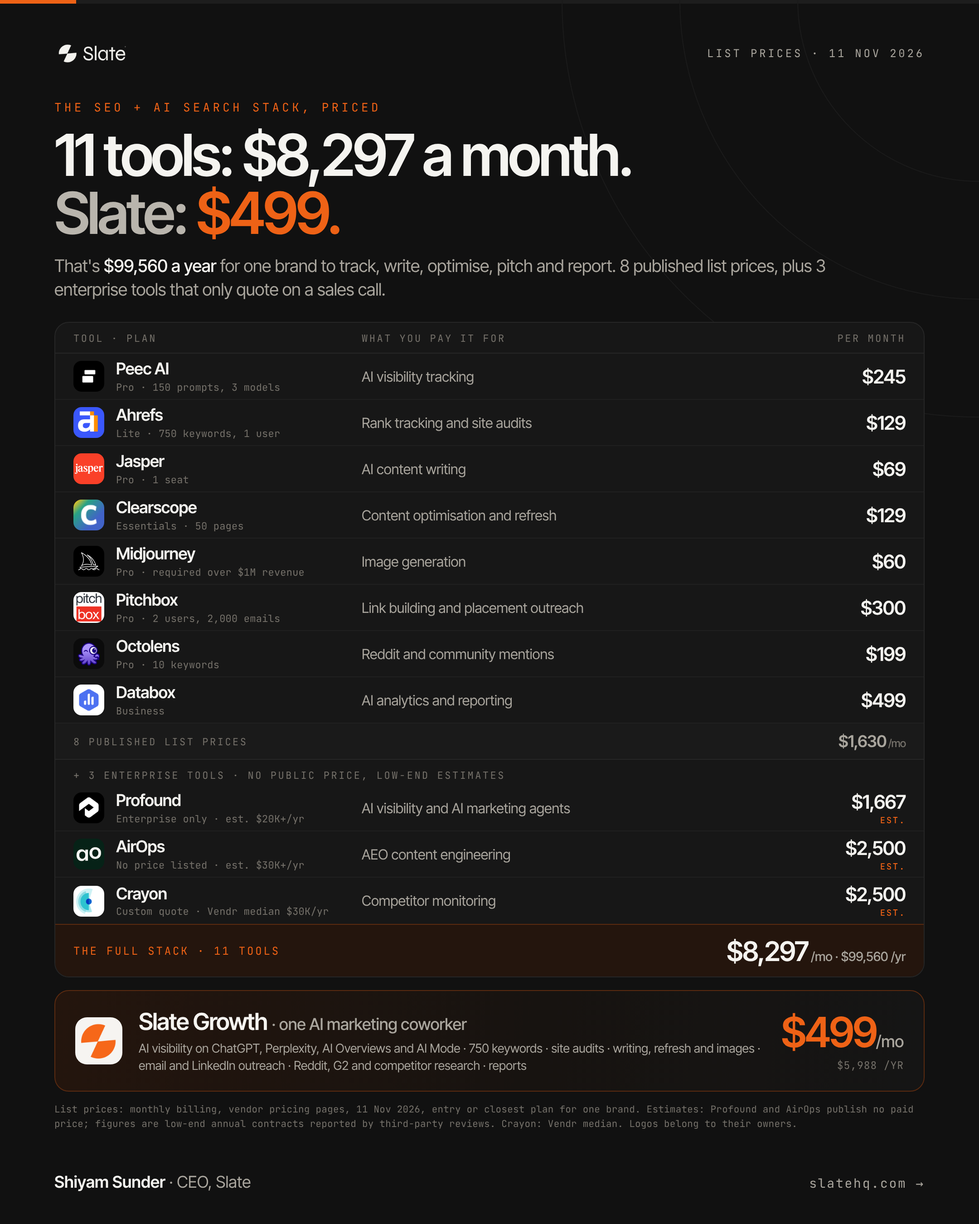
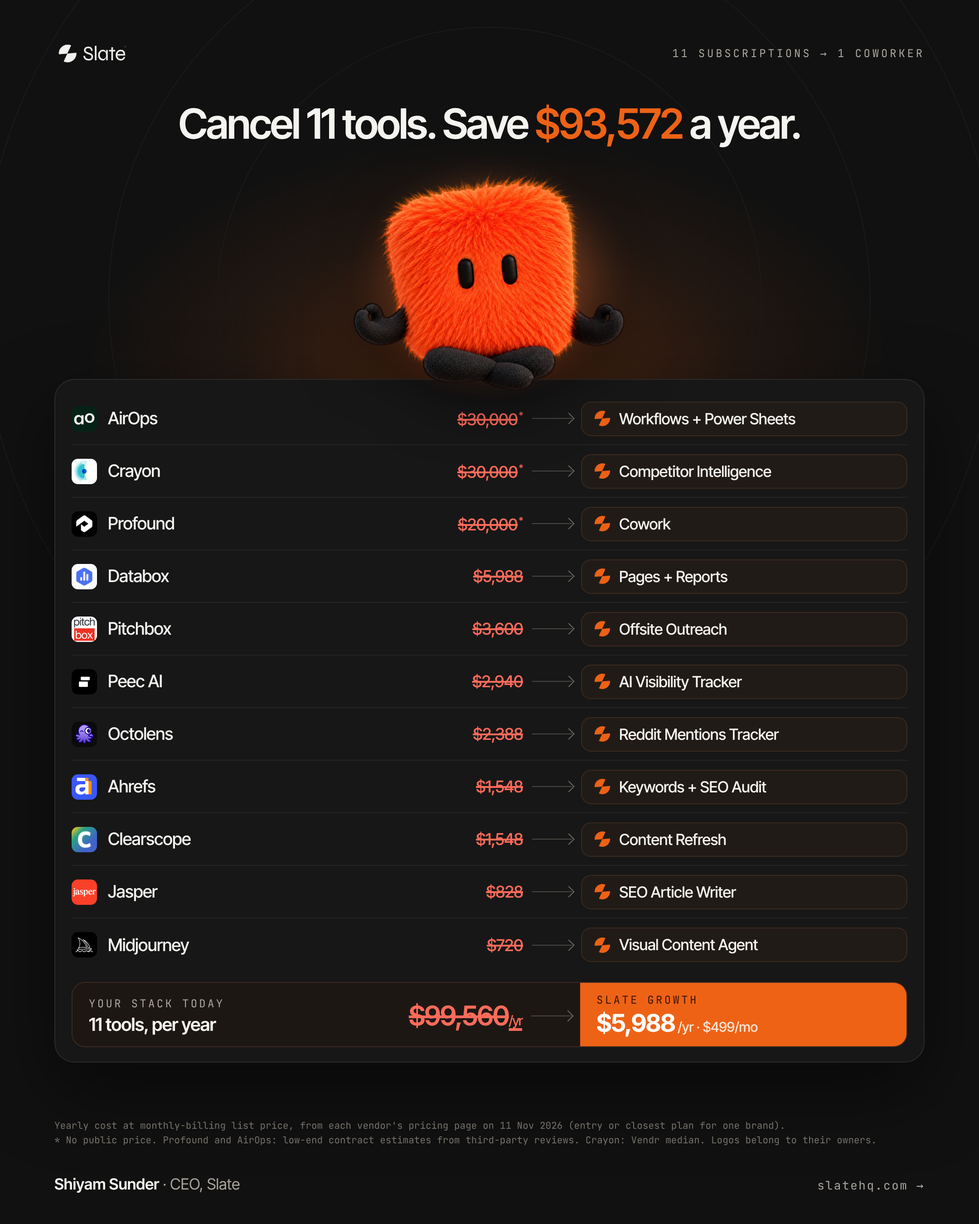
Redesign stack graphic in tool-to-feature layout with Slate mascot
Rebuild the image around the orange Slate mascot (rendered from the
homepage Lottie file) sitting on a card that maps each tool's struck-
through yearly price to the Slate feature that replaces it, totalling
$99,560/yr vs $5,988/yr. Rewrite the post in a warmer founder voice.

Claude-Session: https://claude.ai/code/session_017uCf1pmV8y2GsznBw541N3

diff --git a/slate-stack/stack.html b/slate-stack/stack.html
@@ -7,141 +7,104 @@
 <style>
   :root {
     --bg: #111111;
-    --tile: #171717;
-    --line: #262626;
+    --card: #171717;
+    --line: #242424;
     --ink: #f5f4f0;
     --mute: #a9a59d;
     --dim: #75716a;
     --accent: #ee6216;
+    --strike: #ff6b5a;
   }
   * { box-sizing: border-box; margin: 0; padding: 0; }
   html, body { width: 1080px; height: 1350px; background: var(--bg); }
   body { font-family: 'Inter Tight', system-ui, sans-serif; color: var(--ink); position: relative; overflow: hidden; }
   .mono { font-family: 'JetBrains Mono', ui-monospace, monospace; }
-  .bar { position: absolute; top: 0; left: 0; height: 4px; width: 100%; background: #1d1d1d; }
-  .bar::before { content: ''; position: absolute; left: 0; top: 0; height: 4px; width: 84px; background: var(--accent); }
+  .glow { position: absolute; left: 50%; top: 150px; width: 900px; height: 520px; transform: translateX(-50%);
+          background: radial-gradient(closest-side, rgba(238,98,22,.30), rgba(238,98,22,.08) 60%, transparent 100%); }
   .rings { position: absolute; inset: 0; pointer-events: none; }
 
-  .wrap { position: absolute; inset: 0; padding: 44px 60px 36px; display: flex; flex-direction: column; }
-  header { display: flex; justify-content: space-between; align-items: center; }
+  header { position: absolute; top: 44px; left: 60px; right: 60px; display: flex; justify-content: space-between; align-items: center; }
   header img { height: 30px; }
   header .tag { font-size: 12px; letter-spacing: .2em; color: var(--mute); }
 
-  .eyebrow { margin-top: 36px; font-size: 13px; letter-spacing: .24em; color: var(--accent); }
-  h1 { margin-top: 12px; font-size: 64px; line-height: 1; font-weight: 600; letter-spacing: -0.045em; }
-  h1 .grey { color: #b9b5ad; }
+  h1 { position: absolute; top: 112px; left: 0; right: 0; text-align: center; font-size: 46px; font-weight: 600; letter-spacing: -0.04em; line-height: 1.05; }
   h1 em { font-style: normal; color: var(--accent); }
-  .sub { margin-top: 14px; font-size: 19px; line-height: 1.38; color: var(--mute); letter-spacing: -0.01em; max-width: 900px; }
-  .sub b { color: var(--ink); font-weight: 500; }
 
-  .table { margin-top: 22px; border: 1px solid var(--line); border-radius: 16px; background: var(--tile); overflow: hidden; }
-  .thead, .row { display: grid; grid-template-columns: 300px 1fr 104px; align-items: center; column-gap: 18px; padding: 0 20px; }
-  .thead { height: 34px; font-size: 11px; letter-spacing: .16em; color: var(--dim); border-bottom: 1px solid var(--line); }
-  .thead div:last-child { text-align: right; }
-  .row { height: 51px; border-bottom: 1px solid #202020; }
-  .tool { display: flex; align-items: center; gap: 13px; min-width: 0; }
-  .logo { width: 34px; height: 34px; border-radius: 9px; overflow: hidden; flex: none; display: flex; align-items: center; justify-content: center; }
+  .mascot { position: absolute; left: 50%; top: 170px; width: 318px; transform: translateX(-50%); z-index: 2; filter: drop-shadow(0 18px 30px rgba(0,0,0,.55)); }
+
+  .card { position: absolute; left: 60px; right: 60px; top: 418px; background: var(--card); border: 1px solid #2a2a2a; border-radius: 22px; padding: 14px 18px 16px; box-shadow: 0 30px 80px rgba(0,0,0,.5); }
+  .row { display: grid; grid-template-columns: 1fr 92px 64px 360px; align-items: center; height: 58px; border-bottom: 1px solid var(--line); }
+  .row.last { border-bottom: 0; }
+  .tool { display: flex; align-items: center; gap: 12px; }
+  .logo { width: 28px; height: 28px; border-radius: 7px; overflow: hidden; flex: none; display: flex; align-items: center; justify-content: center; }
   .logo img { width: 100%; height: 100%; object-fit: cover; display: block; }
   .logo.pad { background: #fff; } .logo.pad img { width: 82%; height: 82%; object-fit: contain; }
-  .logo.dk { background: #0b0b0b; } .logo.dk img { width: 78%; height: 78%; object-fit: contain; }
-  .name { font-size: 18px; font-weight: 600; letter-spacing: -0.02em; line-height: 1.1; }
-  .plan { font-size: 11px; color: var(--dim); margin-top: 3px; letter-spacing: .01em; white-space: nowrap; }
-  .job { font-size: 15.5px; color: var(--mute); letter-spacing: -0.005em; }
-  .price { text-align: right; font-size: 21px; font-weight: 600; letter-spacing: -0.03em; }
-  .price small { font-size: 12px; color: var(--dim); font-weight: 500; letter-spacing: 0; }
-  .price.q { font-family: 'JetBrains Mono', monospace; font-size: 12px; font-weight: 500; color: var(--accent); letter-spacing: .04em; line-height: 1.25; }
+  .logo.dk { background: #0b0b0b; } .logo.dk img { width: 80%; height: 80%; object-fit: contain; }
+  .name { font-size: 19px; font-weight: 500; letter-spacing: -0.02em; }
+  .price { text-align: right; font-size: 18px; font-weight: 500; color: var(--strike); text-decoration: line-through; text-decoration-thickness: 1.5px; letter-spacing: -0.02em; white-space: nowrap; }
+  .price sup { font-size: 11px; display: inline-block; margin-left: 1px; color: var(--strike); }
+  .arrow { display: flex; align-items: center; padding: 0 10px; }
+  .arrow i { flex: 1; height: 1px; background: #4a4743; position: relative; }
+  .arrow i::after { content: ''; position: absolute; right: -1px; top: -4px; width: 8px; height: 8px; border-top: 1px solid #6b6760; border-right: 1px solid #6b6760; transform: rotate(45deg); }
+  .pill { display: flex; align-items: center; gap: 10px; height: 38px; padding: 0 14px; border-radius: 11px; background: #211b17; border: 1px solid #3a2a1f; font-size: 17px; font-weight: 500; letter-spacing: -0.015em; }
+  .pill img { width: 17px; height: 17px; }
 
-  .sum { display: grid; grid-template-columns: 1fr auto; align-items: center; padding: 0 20px; height: 58px; background: #24150d; border-top: 1px solid #5a2a10; }
-  .sum .l { color: var(--accent) !important; }
-  .sub2 { display: grid; grid-template-columns: 1fr auto; align-items: center; padding: 0 20px; height: 40px; background: #1a1a1a; border-bottom: 1px solid var(--line); }
-  .sub2 .l { font-size: 11px; letter-spacing: .16em; color: var(--dim); }
-  .sub2 .r { font-size: 18px; font-weight: 600; letter-spacing: -0.03em; color: var(--mute); }
-  .sub2 .r small { font-size: 12px; color: var(--dim); font-weight: 500; }
-  .est { font-size: 9.5px; letter-spacing: .14em; color: var(--accent); font-weight: 500; margin-top: 1px; }
-  .sum .l { font-size: 12px; letter-spacing: .16em; color: var(--mute); }
-  .sum .r { font-size: 30px; font-weight: 600; letter-spacing: -0.035em; }
-  .sum .r small { font-size: 14px; color: var(--mute); font-weight: 500; letter-spacing: -0.01em; }
-  .group { padding: 10px 20px 4px; font-size: 11px; letter-spacing: .16em; color: var(--dim); }
-  .row.last { border-bottom: 0; }
+  .total { margin-top: 12px; display: grid; grid-template-columns: 1fr auto 64px 360px; align-items: center; height: 72px; border-radius: 15px; background: #1d1714; border: 1px solid #3a2a1f; padding-left: 18px; overflow: hidden; }
+  .total .l { font-size: 12px; letter-spacing: .18em; color: var(--mute); }
+  .total .l b { display: block; font-family: 'Inter Tight', sans-serif; font-size: 20px; letter-spacing: -0.02em; color: var(--ink); font-weight: 600; margin-top: 3px; }
+  .total .old { font-size: 30px; font-weight: 600; color: var(--strike); text-decoration: line-through; text-decoration-thickness: 2.5px; letter-spacing: -0.035em; }
+  .total .old small { font-size: 15px; font-weight: 500; }
+  .total .new { height: 72px; background: var(--accent); display: flex; flex-direction: column; justify-content: center; padding: 0 18px; }
+  .total .new .a { font-size: 12px; letter-spacing: .18em; color: #3b1503; font-family: 'JetBrains Mono', monospace; }
+  .total .new .b { font-size: 27px; font-weight: 700; letter-spacing: -0.035em; color: #fff; margin-top: 1px; }
+  .total .new .b small { font-size: 15px; font-weight: 500; color: #ffe6d6; letter-spacing: -0.01em; }
 
-  .slate { margin-top: 14px; border-radius: 16px; border: 1px solid #5a2a10; background: linear-gradient(100deg, #24150d 0%, #171310 55%, #151515 100%); padding: 18px 22px; display: grid; grid-template-columns: auto 1fr auto; column-gap: 18px; align-items: center; }
-  .slate .logo { width: 52px; height: 52px; border-radius: 13px; }
-  .slate .t { font-size: 26px; font-weight: 600; letter-spacing: -0.03em; }
-  .slate .t span { color: var(--mute); font-weight: 500; font-size: 18px; letter-spacing: -0.01em; }
-  .slate .d { margin-top: 5px; font-size: 13.5px; color: var(--mute); line-height: 1.4; }
-  .slate .p { text-align: right; }
-  .slate .p .big { font-size: 46px; font-weight: 600; letter-spacing: -0.045em; color: var(--accent); line-height: 1; }
-  .slate .p .big small { font-size: 18px; color: var(--mute); letter-spacing: -0.01em; font-weight: 500; }
-  .slate .p .yr { font-size: 11.5px; color: var(--dim); margin-top: 6px; letter-spacing: .04em; }
-
-  .note { margin-top: 12px; font-size: 10.5px; line-height: 1.5; color: var(--dim); letter-spacing: .01em; }
-  footer { margin-top: auto; display: flex; justify-content: space-between; align-items: baseline; font-size: 18px; }
+  .note { position: absolute; left: 60px; right: 60px; top: 1234px; font-size: 10.5px; line-height: 1.5; color: var(--dim); }
+  footer { position: absolute; left: 60px; right: 60px; bottom: 34px; display: flex; justify-content: space-between; align-items: baseline; font-size: 17px; }
   footer b { font-weight: 600; } footer span { color: var(--mute); }
-  footer .mono { font-size: 14px; color: var(--mute); letter-spacing: .1em; }
+  footer .mono { font-size: 13px; color: var(--mute); letter-spacing: .1em; }
 </style>
 </head>
 <body>
-  <div class="bar"></div>
+  <div class="glow"></div>
   <svg class="rings" viewBox="0 0 1080 1350" fill="none"><g stroke="#1b1b1b" stroke-width="1">
-    <circle cx="1080" cy="0" r="200"/><circle cx="1080" cy="0" r="330"/><circle cx="1080" cy="0" r="460"/></g></svg>
+    <circle cx="540" cy="330" r="300"/><circle cx="540" cy="330" r="420"/><circle cx="540" cy="330" r="560"/></g></svg>
 
-  <div class="wrap">
-    <header>
-      <img src="logo.png" alt="Slate">
-      <div class="tag mono">LIST PRICES · 11 NOV 2026</div>
-    </header>
+  <header>
+    <img src="logo.png" alt="Slate">
+    <div class="tag mono">11 SUBSCRIPTIONS → 1 COWORKER</div>
+  </header>
 
-    <div class="eyebrow mono">THE SEO + AI SEARCH STACK, PRICED</div>
-    <h1>11 tools: $8,297 a month.<br><span class="grey">Slate: <em>$499.</em></span></h1>
-    <p class="sub">That's <b>$99,560 a year</b> for one brand to track, write, optimise, pitch and report. 8 published list prices, plus 3 enterprise tools that only quote on a sales call.</p>
+  <h1>Cancel 11 tools. Save <em>$93,572</em> a year.</h1>
 
-    <div class="table">
-      <div class="thead mono"><div>TOOL · PLAN</div><div>WHAT YOU PAY IT FOR</div><div>PER MONTH</div></div>
+  <img class="mascot" src="mascot.png" alt="Slate mascot">
 
-      <div class="row"><div class="tool"><div class="logo"><img src="logos/peec.png"></div><div><div class="name">Peec AI</div><div class="plan mono">Pro · 150 prompts, 3 models</div></div></div>
-        <div class="job">AI visibility tracking</div><div class="price">$245</div></div>
-      <div class="row"><div class="tool"><div class="logo"><img src="logos/ahrefs.png"></div><div><div class="name">Ahrefs</div><div class="plan mono">Lite · 750 keywords, 1 user</div></div></div>
-        <div class="job">Rank tracking and site audits</div><div class="price">$129</div></div>
-      <div class="row"><div class="tool"><div class="logo"><img src="logos/jasper.png"></div><div><div class="name">Jasper</div><div class="plan mono">Pro · 1 seat</div></div></div>
-        <div class="job">AI content writing</div><div class="price">$69</div></div>
-      <div class="row"><div class="tool"><div class="logo"><img src="logos/clearscope48.png"></div><div><div class="name">Clearscope</div><div class="plan mono">Essentials · 50 pages</div></div></div>
-        <div class="job">Content optimisation and refresh</div><div class="price">$129</div></div>
-      <div class="row"><div class="tool"><div class="logo"><img src="logos/midjourney.svg"></div><div><div class="name">Midjourney</div><div class="plan mono">Pro · required over $1M revenue</div></div></div>
-        <div class="job">Image generation</div><div class="price">$60</div></div>
-      <div class="row"><div class="tool"><div class="logo"><img src="logos/pitchbox.png"></div><div><div class="name">Pitchbox</div><div class="plan mono">Pro · 2 users, 2,000 emails</div></div></div>
-        <div class="job">Link building and placement outreach</div><div class="price">$300</div></div>
-      <div class="row"><div class="tool"><div class="logo dk"><img src="logos/octolens.png"></div><div><div class="name">Octolens</div><div class="plan mono">Pro · 10 keywords</div></div></div>
-        <div class="job">Reddit and community mentions</div><div class="price">$199</div></div>
-      <div class="row"><div class="tool"><div class="logo"><img src="logos/databox.png"></div><div><div class="name">Databox</div><div class="plan mono">Business</div></div></div>
-        <div class="job">AI analytics and reporting</div><div class="price">$499</div></div>
+  <div class="card">
+    <div class="row"><div class="tool"><div class="logo"><img src="logos/airops.png"></div><span class="name">AirOps</span></div><div class="price">$30,000<sup>*</sup></div><div class="arrow"><i></i></div><div class="pill"><img src="logos/slate-mark.png">Workflows + Power Sheets</div></div>
+    <div class="row"><div class="tool"><div class="logo pad"><img src="logos/crayon.png"></div><span class="name">Crayon</span></div><div class="price">$30,000<sup>*</sup></div><div class="arrow"><i></i></div><div class="pill"><img src="logos/slate-mark.png">Competitor Intelligence</div></div>
+    <div class="row"><div class="tool"><div class="logo"><img src="logos/profound.png"></div><span class="name">Profound</span></div><div class="price">$20,000<sup>*</sup></div><div class="arrow"><i></i></div><div class="pill"><img src="logos/slate-mark.png">Cowork</div></div>
+    <div class="row"><div class="tool"><div class="logo"><img src="logos/databox.png"></div><span class="name">Databox</span></div><div class="price">$5,988</div><div class="arrow"><i></i></div><div class="pill"><img src="logos/slate-mark.png">Pages + Reports</div></div>
+    <div class="row"><div class="tool"><div class="logo"><img src="logos/pitchbox.png"></div><span class="name">Pitchbox</span></div><div class="price">$3,600</div><div class="arrow"><i></i></div><div class="pill"><img src="logos/slate-mark.png">Offsite Outreach</div></div>
+    <div class="row"><div class="tool"><div class="logo"><img src="logos/peec.png"></div><span class="name">Peec AI</span></div><div class="price">$2,940</div><div class="arrow"><i></i></div><div class="pill"><img src="logos/slate-mark.png">AI Visibility Tracker</div></div>
+    <div class="row"><div class="tool"><div class="logo dk"><img src="logos/octolens.png"></div><span class="name">Octolens</span></div><div class="price">$2,388</div><div class="arrow"><i></i></div><div class="pill"><img src="logos/slate-mark.png">Reddit Mentions Tracker</div></div>
+    <div class="row"><div class="tool"><div class="logo"><img src="logos/ahrefs.png"></div><span class="name">Ahrefs</span></div><div class="price">$1,548</div><div class="arrow"><i></i></div><div class="pill"><img src="logos/slate-mark.png">Keywords + SEO Audit</div></div>
+    <div class="row"><div class="tool"><div class="logo"><img src="logos/clearscope48.png"></div><span class="name">Clearscope</span></div><div class="price">$1,548</div><div class="arrow"><i></i></div><div class="pill"><img src="logos/slate-mark.png">Content Refresh</div></div>
+    <div class="row"><div class="tool"><div class="logo"><img src="logos/jasper.png"></div><span class="name">Jasper</span></div><div class="price">$828</div><div class="arrow"><i></i></div><div class="pill"><img src="logos/slate-mark.png">SEO Article Writer</div></div>
+    <div class="row last"><div class="tool"><div class="logo"><img src="logos/midjourney.svg"></div><span class="name">Midjourney</span></div><div class="price">$720</div><div class="arrow"><i></i></div><div class="pill"><img src="logos/slate-mark.png">Visual Content Agent</div></div>
 
-      <div class="sub2"><div class="l mono">8 PUBLISHED LIST PRICES</div><div class="r">$1,630<small> /mo</small></div></div>
-
-      <div class="group mono">+ 3 ENTERPRISE TOOLS · NO PUBLIC PRICE, LOW-END ESTIMATES</div>
-      <div class="row"><div class="tool"><div class="logo"><img src="logos/profound.png"></div><div><div class="name">Profound</div><div class="plan mono">Enterprise only · est. $20K+/yr</div></div></div>
-        <div class="job">AI visibility and AI marketing agents</div><div class="price">$1,667<div class="est mono">EST.</div></div></div>
-      <div class="row"><div class="tool"><div class="logo"><img src="logos/airops.png"></div><div><div class="name">AirOps</div><div class="plan mono">No price listed · est. $30K+/yr</div></div></div>
-        <div class="job">AEO content engineering</div><div class="price">$2,500<div class="est mono">EST.</div></div></div>
-      <div class="row last"><div class="tool"><div class="logo pad"><img src="logos/crayon.png"></div><div><div class="name">Crayon</div><div class="plan mono">Custom quote · Vendr median $30K/yr</div></div></div>
-        <div class="job">Competitor monitoring</div><div class="price">$2,500<div class="est mono">EST.</div></div></div>
-      <div class="sum"><div class="l mono">THE FULL STACK · 11 TOOLS</div><div class="r">$8,297<small> /mo · $99,560 /yr</small></div></div>
+    <div class="total">
+      <div class="l mono">YOUR STACK TODAY<b>11 tools, per year</b></div>
+      <div class="old">$99,560<small>/yr</small></div>
+      <div class="arrow"><i></i></div>
+      <div class="new"><div class="a">SLATE GROWTH</div><div class="b">$5,988<small> /yr · $499/mo</small></div></div>
     </div>
-
-    <div class="slate">
-      <div class="logo"><img src="logos/slate.png"></div>
-      <div>
-        <div class="t">Slate Growth <span>· one AI marketing coworker</span></div>
-        <div class="d">AI visibility on ChatGPT, Perplexity, AI Overviews and AI Mode · 750 keywords · site audits · writing, refresh and images · email and LinkedIn outreach · Reddit, G2 and competitor research · reports</div>
-      </div>
-      <div class="p"><div class="big">$499<small>/mo</small></div><div class="yr mono">$5,988 /YR</div></div>
-    </div>
-
-    <div class="note mono">List prices: monthly billing, vendor pricing pages, 11 Nov 2026, entry or closest plan for one brand. Estimates: Profound and AirOps publish no paid price; figures are low-end annual contracts reported by third-party reviews. Crayon: Vendr median. Logos belong to their owners.</div>
-
-    <footer>
-      <div><b>Shiyam Sunder</b> <span>· CEO, Slate</span></div>
-      <div class="mono">slatehq.com →</div>
-    </footer>
   </div>
+
+  <div class="note mono">Yearly cost at monthly-billing list price, from each vendor's pricing page on 11 Nov 2026 (entry or closest plan for one brand).<br>* No public price. Profound and AirOps: low-end contract estimates from third-party reviews. Crayon: Vendr median. Logos belong to their owners.</div>
+
+  <footer>
+    <div><b>Shiyam Sunder</b> <span>· CEO, Slate</span></div>
+    <div class="mono">slatehq.com →</div>
+  </footer>
 </body>
 </html>

diff --git a/slate-stack/post.md b/slate-stack/post.md
@@ -1,73 +1,56 @@
-# Slate: "The stack, priced" LinkedIn post
+# Slate: "Cancel 11 tools" LinkedIn post
 
-**Image:** `slate-stack.png` (4:5, 2160×2700). Source: `stack.html` + `logos/`.
-**Every price, plan and limit** is listed with its source URL in `sources.md`, checked on each vendor's live pricing page on 11 Nov 2026.
+**Image:** `slate-stack.png` (4:5, 2160×2700). Source: `stack.html`, `logos/`, and `mascot.png`. The mascot is rendered from Slate's own animation file, slatehq.com/mascot/fuzzy-float.json.
+**Prices and claims:** every number and its source URL is in `sources.md`.
 
 ---
 
 ## Post
 
-I priced the SEO + AI search stack a single brand pays for today.
+A lot of marketing software is just a dashboard with a renewal date.
 
-11 tools. $8,297 a month. Almost $100K a year.
+It tells you what's broken. Then it waits for someone on your team to go fix it.
 
-Slate Growth is $499 a month.
+Look at the stack most marketing teams run today. A tool to track AI search. A tool to write. A tool to optimise what got written. A tool to find people to pitch. A tool to watch Reddit. A tool to report on all the other tools.
 
-The expensive part isn't the tools with price tags. It's the three that make you book a sales call before they'll tell you.
+Eleven logins. Eleven renewals. Close to $100,000 a year.
 
-Here's the stack, at the plan closest to one brand's needs, billed monthly:
+And the team still does all the work.
 
-→ Peec AI Pro, AI visibility tracking: $245
-→ Ahrefs Lite, rank tracking and site audits: $129
-→ Jasper Pro, AI writing: $69 a seat
-→ Clearscope Essentials, content optimisation: $129
-→ Midjourney Pro, images: $60 (Pro is required once your company makes over $1M a year)
-→ Pitchbox Pro, link building outreach: $300
-→ Octolens Pro, Reddit and community mentions: $199
-→ Databox Business, AI analytics and reporting: $499
+We didn't want to build tool number twelve.
 
-That's $1,630 a month in published list prices, before you add a second seat anywhere.
+So we built Slate as a coworker. You give it a goal and it gets on with it. It tracks where you show up in AI answers, writes and refreshes your pages, pitches the sites the models cite, watches Reddit and your competitors, and sends you the report. Nothing ships without your approval.
 
-Then the three without a price tag:
-→ Profound, AI visibility and agents: Enterprise only, custom quote. Reported deals start around $20K a year.
-→ AirOps, AEO content engineering: no price on the page. Estimates start around $30K a year.
-→ Crayon, competitor monitoring: "tailored to your program." Vendr's median contract is $30K a year.
+It's $499 a month.
 
-Add those at the low end and you're at $8,297 a month, or $99,560 a year.
+Don't let the fluff fool you. Our little orange coworker packs a punch.
 
-Are these 1:1 swaps? Not all of them. Databox is a full BI tool, and Crayon goes deeper on sales battlecards than we do. But most teams buy each one for a single job, and each job ends in the same place: a dashboard, waiting for someone to act on it.
-
-That's the gap we built Slate for. On Growth you get:
-→ 10,000 AI answers a month across ChatGPT, Perplexity, AI Overviews and AI Mode
-→ 750 keywords tracked and 1,000 pages monitored
-→ Site audits, briefs, articles, refreshes and visuals, published to your CMS with your approval
-→ Outreach over email and LinkedIn
-→ Reddit, G2 and competitor research
-→ Weekly reports in Slack
-
-One coworker, one memory, every job. And it does the work, not just the tracking.
-
-List prices come from each vendor's own pricing page this week. The three enterprise figures are low-end estimates, because those vendors don't publish one. Sources in the first comment.
-
-What's in your stack that I missed?
+Here's everything it replaces, and what each of those tools costs today.
 
 ---
 
-## Alternate hooks (swap for the first line)
+## Shorter version (if you want it tighter)
 
-1. Profound doesn't publish a price. Neither does AirOps. So I priced the whole stack anyway.
-2. $99,560 a year. That's what one brand's SEO + AI search stack costs at the low end.
-3. The average AI search stack has more dashboards than people to read them. Here's what it costs.
+Most marketing tools tell you what's wrong. Very few fix it.
+
+So teams end up paying for eleven of them. Close to $100K a year, and the work still lands on people.
+
+We built Slate to be the one that does the work. Track AI search, write, refresh, pitch, watch Reddit and competitors, report. All in one coworker, for $499 a month.
+
+Small, orange, fluffy. Surprisingly hard-working.
+
+Here's what it replaces.
 
 ---
 
 ## First comment
 
-Sources, all checked 11 Nov 2026 on monthly billing:
-Peec AI peec.ai/pricing · Ahrefs ahrefs.com/pricing · Jasper jasper.ai/pricing · Clearscope clearscope.io/pricing · Midjourney docs.midjourney.com (Comparing Midjourney Plans) · Pitchbox pitchbox.com/pricing · Octolens octolens.com/pricing · Databox databox.com/pricing · Slate slatehq.com/pricing
+Where the numbers come from:
 
-Estimates (no published price): Profound, Enterprise only per tryprofound.com/pricing, with reported deals from about $20K/yr. AirOps, no price on airops.com/pricing, with third-party estimates from about $24K/yr (Pro) to $50K+/yr (Enterprise). Crayon, Vendr median of $30K/yr across 93 purchases.
+Prices are yearly at each vendor's monthly list price, checked on their own pricing pages on 11 Nov 2026, using the entry or closest plan for one brand: Peec AI, Ahrefs, Jasper, Clearscope, Midjourney, Pitchbox, Octolens and Databox.
 
-Annual billing cuts most of these by 17–30%, and Slate's by 20%.
+Three don't publish a price, so I used the low end of what's been reported. Profound: about $20K a year. AirOps: about $30K a year. Crayon: Vendr's median of $30K a year.
 
-Start a 14-day Slate trial (no card): slatehq.com
+Not every swap is 1:1. Crayon goes deeper on sales battlecards, and Databox is a full BI tool. But most teams buy each one for a single job, and Slate does that job.
+
+14-day free trial, no card: slatehq.com

diff --git a/slate-stack/sources.md b/slate-stack/sources.md
@@ -46,3 +46,25 @@ All prices were read from each vendor's live pricing page in a headless browser 
 4. **Enterprise estimates.** Profound ($20K+/yr), AirOps ($30K+/yr) and Crayon ($30K/yr) aren't published prices. The image and post label them "est." and call them low-end. If you have real quotes from prospects or customers, use those instead.
 5. **Prices change.** Re-check on posting day if it is more than a week after 11 Nov 2026.
 6. **Logos** are the vendors' own favicons and app icons, downloaded from their sites. Using them to identify the products in a factual price comparison is standard practice, but your call.
+
+## Image mapping: tool → Slate feature
+
+Each arrow on the image points to a real Slate product or agent name from slatehq.com:
+
+| Tool | Slate feature on image | Slate source |
+|---|---|---|
+| AirOps | Workflows + Power Sheets | Product nav: Workflows, Power Sheets; pricing table: Bulk execution |
+| Crayon | Competitor Intelligence | /agents/competitor-intelligence-agent |
+| Profound | Cowork | /cowork. Profound's own pitch is an "AI Marketer" teammate |
+| Databox | Pages + Reports | /pages; pricing table "Reports"; FAQ: weekly summaries and executive reports |
+| Pitchbox | Offsite Outreach | /offsite; pricing table "Outreach (LinkedIn & Email)" |
+| Peec AI | AI Visibility Tracker | /ai-visibility-tracker |
+| Octolens | Reddit Mentions Tracker | /agents/reddit-mentions-research-tracker |
+| Ahrefs | Keywords + SEO Audit | Pricing table "Keywords tracked" (750); Domain SEO audit agent |
+| Clearscope | Content Refresh | /content-refresh |
+| Jasper | SEO Article Writer | /agents: "Brief to SEO article writer" |
+| Midjourney | Visual Content Agent | /agents: "Visual Content Agent" |
+
+Headline savings: $99,560 − $5,988 (Slate Growth, $499 × 12) = **$93,572 a year**.
+
+Mascot: rendered from Slate's own Lottie file at https://slatehq.com/mascot/fuzzy-float.json (frame 0), as used on the slatehq.com homepage.
